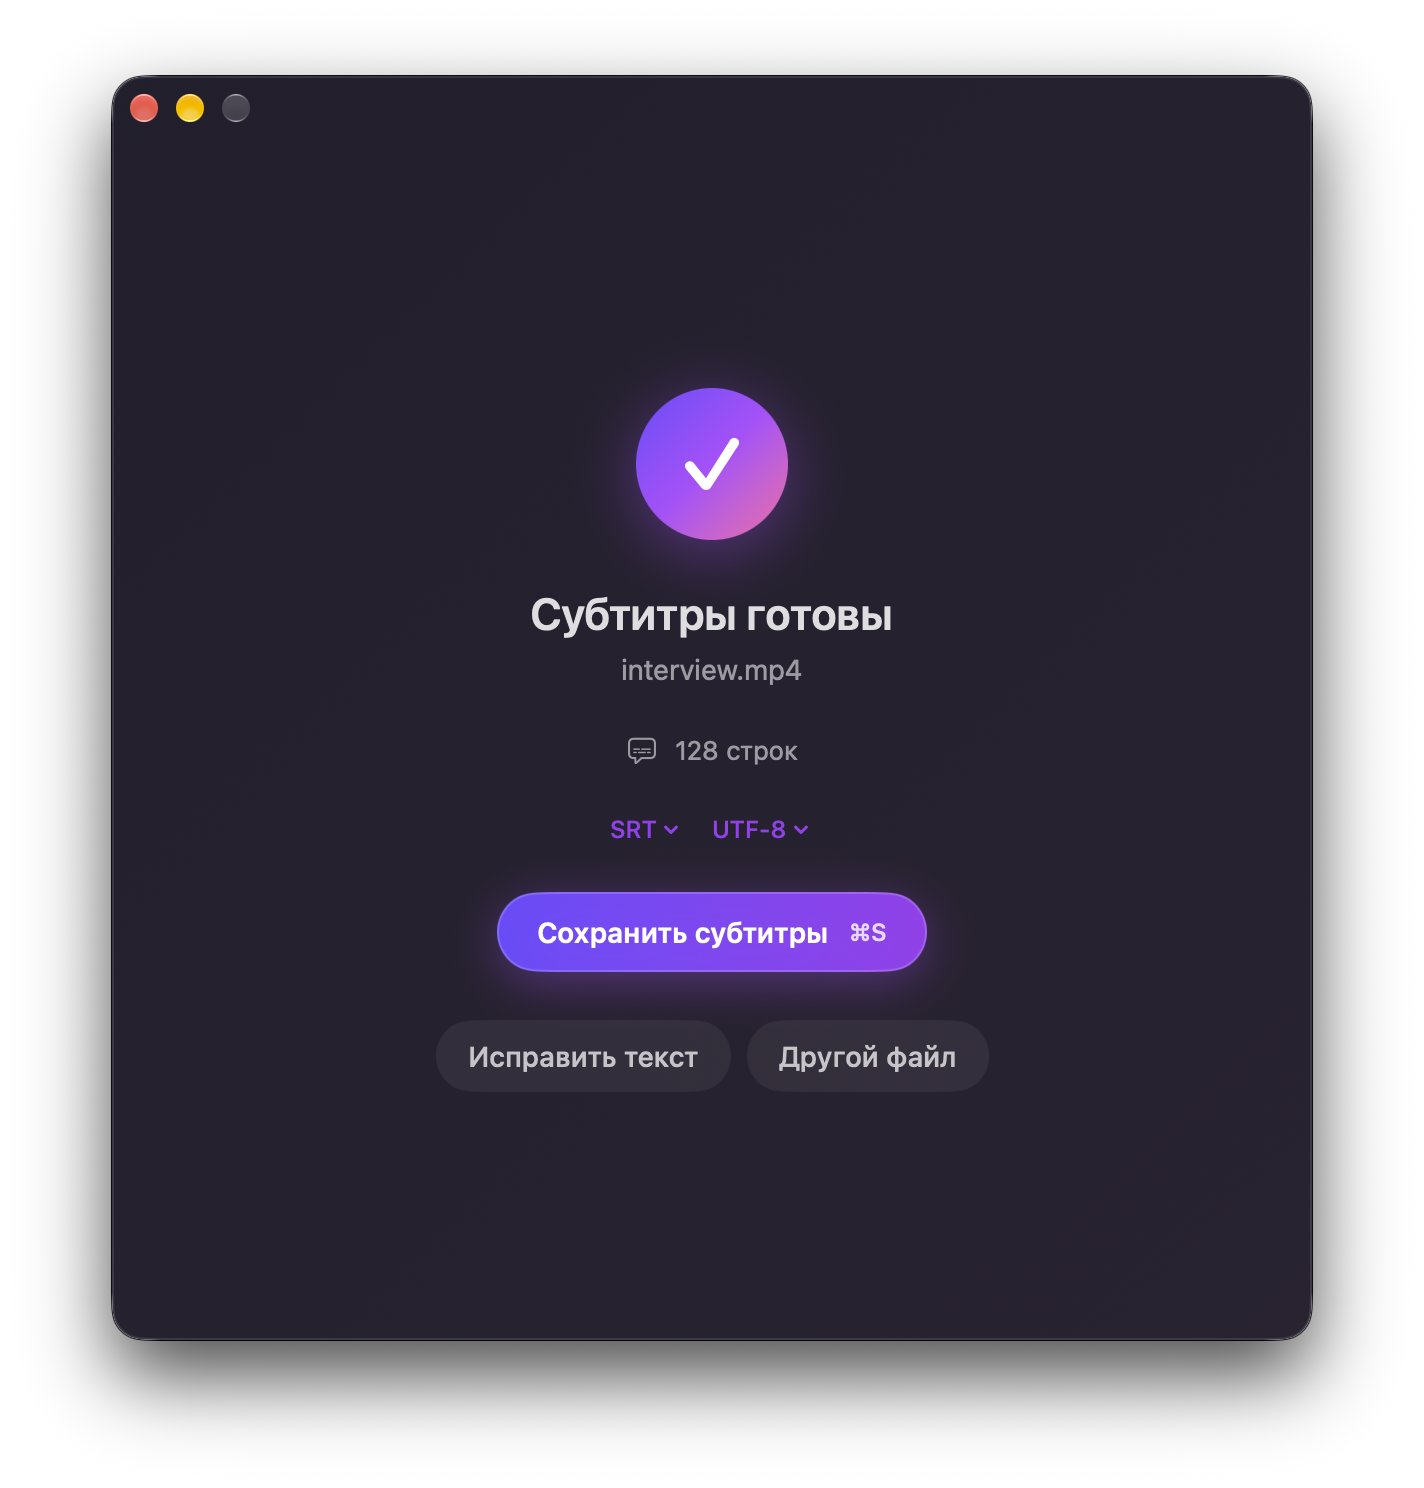
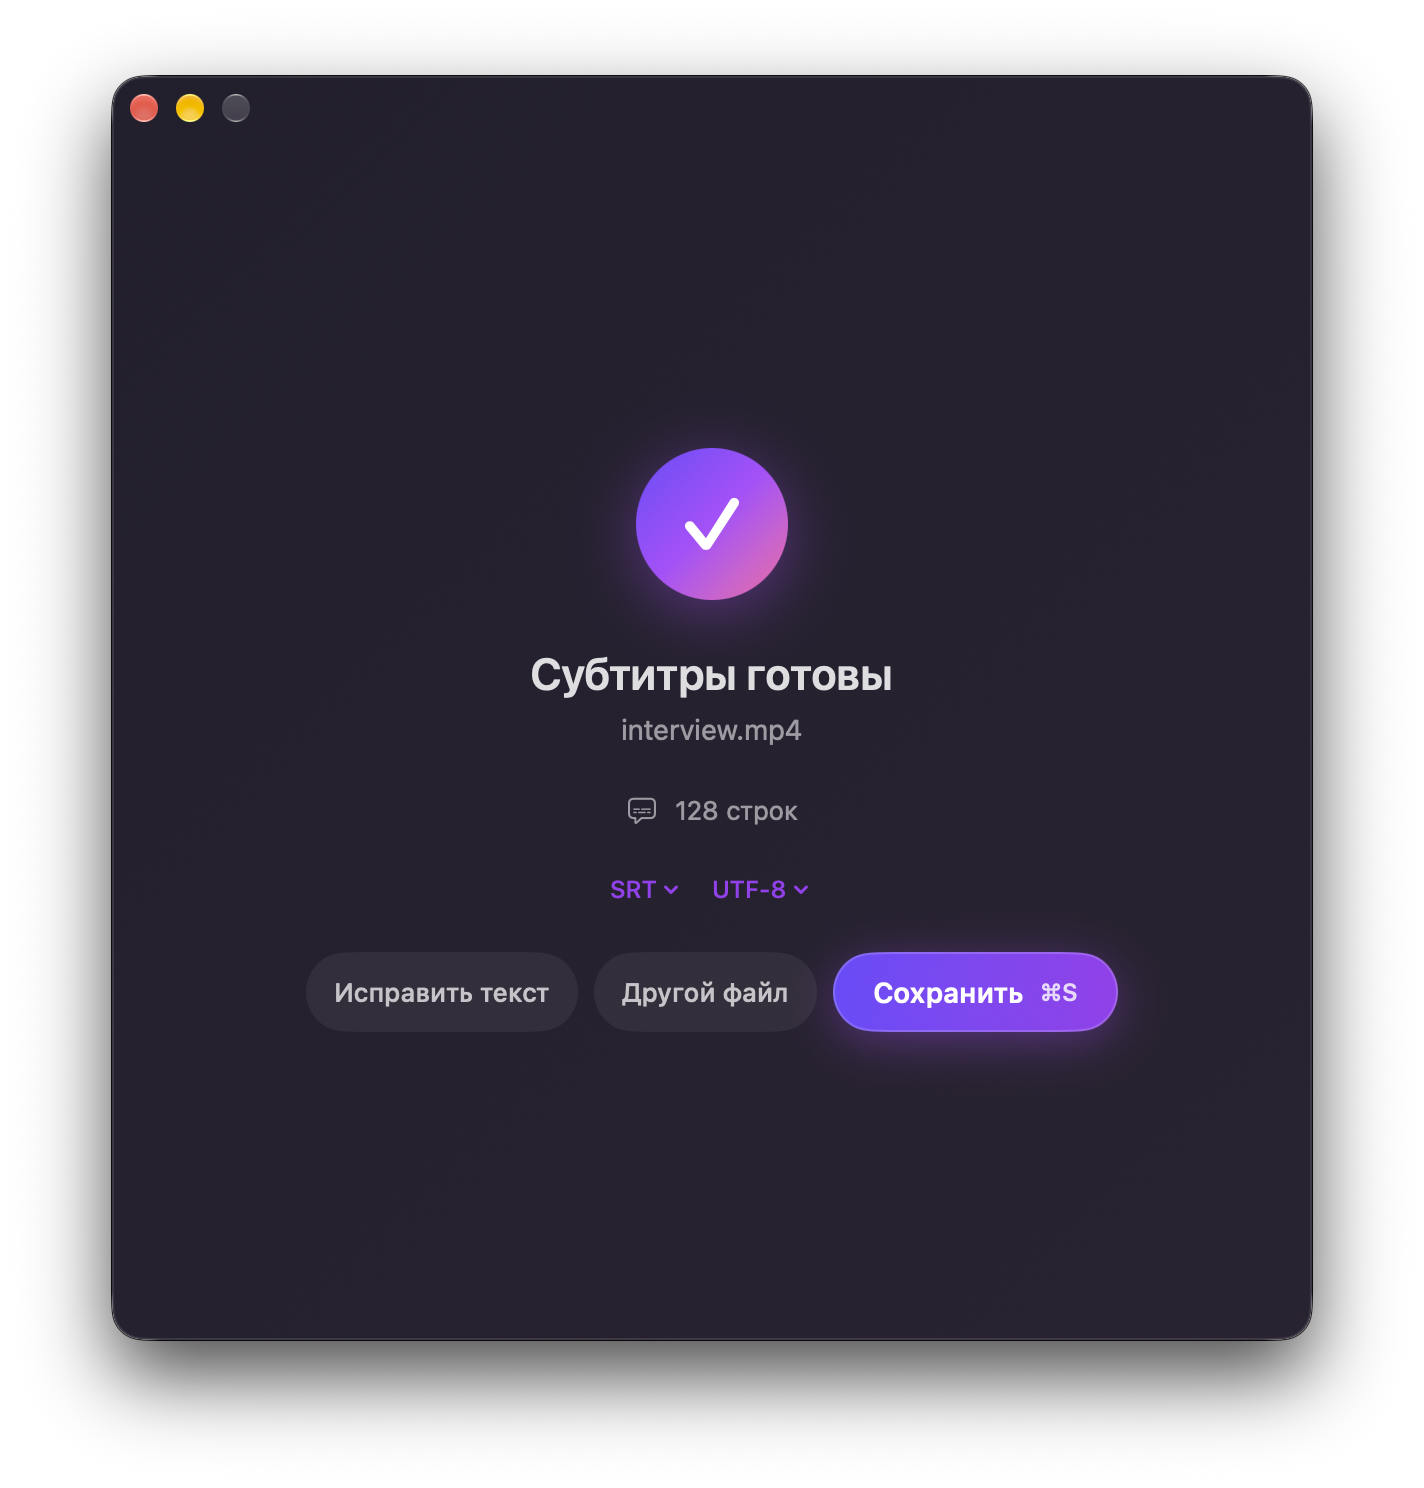
Put finished-screen actions back in one row
Proofread and Another file sit as compact quiet buttons next to the main Save button, all at the same height, so the row stays centered and no wider than the window.

Changed region(s): [[0.2163, 0.5874, 0.8034, 0.7419], [0.3708, 0.2473, 0.618, 0.5565]]

diff --git a/Sources/WhisperDrop/Views/ContentView.swift b/Sources/WhisperDrop/Views/ContentView.swift
@@ -404,20 +404,22 @@ private struct TranscriptionFinishedView: View {
                 }
             }
 
-            Button(action: store.save) {
-                HStack(spacing: 10) {
-                    Text(AppText.pick("Сохранить субтитры", "Save subtitles"))
-                    Text("⌘S").font(.system(size: 12, weight: .medium)).opacity(0.8)
-                }
-            }
-            .buttonStyle(AccentButtonStyle())
-            .keyboardShortcut("s", modifiers: .command)
-
+            // One row, like a macOS dialog: secondary actions first, the main one last.
             HStack(spacing: 8) {
-                Button(AppText.pick("Исправить текст", "Proofread text"), action: store.improveSubtitles)
+                Button(AppText.pick("Исправить текст", "Proofread"), action: store.improveSubtitles)
+                    .buttonStyle(QuietButtonStyle(height: 40, compact: true))
                 Button(AppText.pick("Другой файл", "Another file"), action: store.reset)
+                    .buttonStyle(QuietButtonStyle(height: 40, compact: true))
+                Button(action: store.save) {
+                    HStack(spacing: 8) {
+                        Text(AppText.pick("Сохранить", "Save"))
+                        Text("⌘S").font(.system(size: 12, weight: .medium)).opacity(0.8)
+                    }
+                }
+                .buttonStyle(AccentButtonStyle())
+                .keyboardShortcut("s", modifiers: .command)
             }
-            .buttonStyle(QuietButtonStyle())
+            .fixedSize()
         }
     }
 

diff --git a/Sources/WhisperDrop/Views/Theme.swift b/Sources/WhisperDrop/Views/Theme.swift
@@ -84,12 +84,16 @@ struct AccentButtonStyle: ButtonStyle {
 
 /// Quiet capsule button for secondary actions.
 struct QuietButtonStyle: ButtonStyle {
+    var height: CGFloat = 36
+    /// Smaller text and padding, for secondary buttons sitting next to the main one.
+    var compact = false
+
     func makeBody(configuration: Configuration) -> some View {
         configuration.label
-            .font(.system(size: 14, weight: .medium))
+            .font(.system(size: compact ? 13 : 14, weight: .medium))
             .foregroundStyle(.primary.opacity(0.85))
-            .padding(.horizontal, 16)
-            .frame(height: 36)
+            .padding(.horizontal, compact ? 14 : 16)
+            .frame(height: height)
             .background(.primary.opacity(configuration.isPressed ? 0.12 : 0.07), in: Capsule())
             .contentShape(Capsule())
     }
